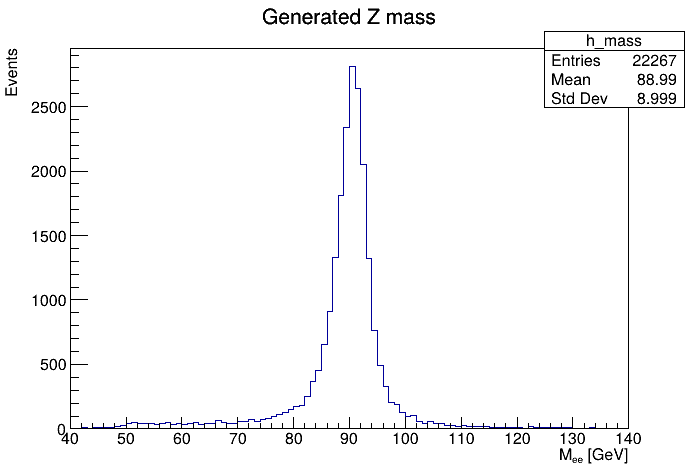
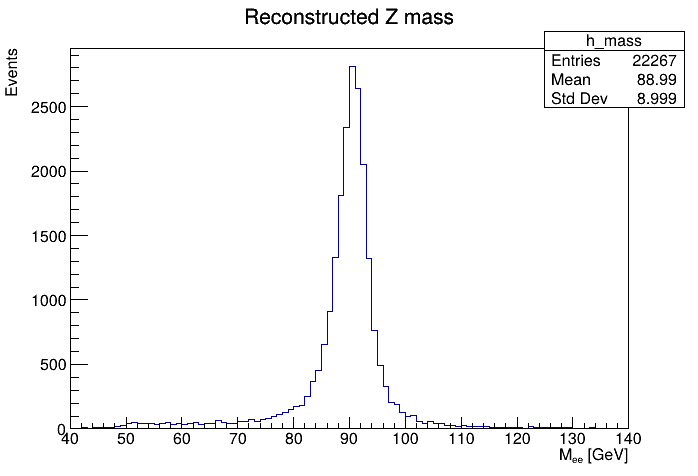
Minor revisions

Changed region(s): [[0.3309, 0.0, 0.6619, 0.0588]]

diff --git a/Question4/generatedZ_custom.C b/Question4/generatedZ_custom.C
@@ -3,6 +3,7 @@
 #include "TH1F.h"
 #include "TCanvas.h"
 #include "TLorentzVector.h"
+#include "TSystem.h"
 
 #include <vector>
 #include <iostream>
@@ -14,8 +15,14 @@
 
 void generatedZ_custom() {
 
+    // Load dictionary for custom particle classes
+    if (gSystem->Load("Question4/libMyParticles.so") < 0) {
+        std::cout << "Error loading libMyParticles.so" << std::endl;
+        return;
+    }
+
     // Open the new tree
-    TFile *f = TFile::Open("particleTree.root");
+    TFile *f = TFile::Open("Question4/particleTree.root");
 
     if (!f || f->IsZombie()) {
         std::cout << "Error opening particleTree.root" << std::endl;
@@ -26,6 +33,7 @@ void generatedZ_custom() {
 
     if (!T) {
         std::cout << "Error: tree T not found" << std::endl;
+        f->Close();
         return;
     }
 
@@ -52,29 +60,24 @@ void generatedZ_custom() {
 
         T->GetEntry(i);
 
-        // Look for opposite-charge same-flavour lepton pairs
+        bool foundPair = false;
+
+        // Look for an opposite-charge electron pair
         for (size_t j = 0; j < genParticles->size(); j++) {
 
-            // Only electrons or muons
-            if (std::abs(genParticles->at(j).pdgId) != 11 &&
-                std::abs(genParticles->at(j).pdgId) != 13)
+            // Only electrons / positrons
+            if (std::abs(genParticles->at(j).pdgId) != 11)
                 continue;
 
             for (size_t k = j + 1; k < genParticles->size(); k++) {
 
-                // Only electrons or muons
-                if (std::abs(genParticles->at(k).pdgId) != 11 &&
-                    std::abs(genParticles->at(k).pdgId) != 13)
-                    continue;
-
-                // Must be same flavour
-                if (std::abs(genParticles->at(j).pdgId) !=
-                    std::abs(genParticles->at(k).pdgId))
+                // Only electrons / positrons
+                if (std::abs(genParticles->at(k).pdgId) != 11)
                     continue;
 
                 // Must have opposite charge
-                if (genParticles->at(j).charge ==
-                    genParticles->at(k).charge)
+                if (genParticles->at(j).charge *
+                    genParticles->at(k).charge != -1)
                     continue;
 
                 // Four-momentum of particle 1
@@ -83,12 +86,12 @@ void generatedZ_custom() {
                 Float_t pz1 = genParticles->at(j).pz;
 
                 Float_t E1 = std::sqrt(
-                    px1*px1 + py1*py1 + pz1*pz1
+                    px1 * px1 +
+                    py1 * py1 +
+                    pz1 * pz1
                 );
 
-                TLorentzVector p1(
-                    px1, py1, pz1, E1
-                );
+                TLorentzVector p1(px1, py1, pz1, E1);
 
                 // Four-momentum of particle 2
                 Float_t px2 = genParticles->at(k).px;
@@ -96,19 +99,26 @@ void generatedZ_custom() {
                 Float_t pz2 = genParticles->at(k).pz;
 
                 Float_t E2 = std::sqrt(
-                    px2*px2 + py2*py2 + pz2*pz2
+                    px2 * px2 +
+                    py2 * py2 +
+                    pz2 * pz2
                 );
 
-                TLorentzVector p2(
-                    px2, py2, pz2, E2
-                );
+                TLorentzVector p2(px2, py2, pz2, E2);
 
                 // Z boson four-momentum
                 TLorentzVector Z = p1 + p2;
 
                 // Fill invariant mass
                 h_mass->Fill(Z.M());
+
+                // Only one pair per event
+                foundPair = true;
+                break;
             }
+
+            if (foundPair)
+                break;
         }
     }
 
@@ -122,7 +132,7 @@ void generatedZ_custom() {
 
     h_mass->Draw();
 
-    c1->SaveAs("generatedZ_custom_mass.png");
+    c1->SaveAs("Question4/generatedZ_custom_mass.png");
 
     f->Close();
 }

diff --git a/Question3/PartA/tree_example1Class.C b/Question3/PartA/tree_example1Class.C
@@ -1,35 +1,39 @@
 #define tree_example1Class_cxx
+
 #include "tree_example1Class.h"
+
 #include <TH2.h>
+#include <TH1.h>
 #include <TStyle.h>
 #include <TCanvas.h>
 
 void tree_example1Class::Loop()
 {
-//   In a ROOT session, you can do:
-//      root> .L tree_example1Class.C
-//      root> tree_example1Class t
-//      root> t.GetEntry(12); // Fill t data members with entry number 12
-//      root> t.Show();       // Show values of entry 12
-//      root> t.Show(16);     // Read and show values of entry 16
-//      root> t.Loop();       // Loop on all entries
-//
+   //   In a ROOT session, you can do:
+   //      root> .L tree_example1Class.C
+   //      root> tree_example1Class t
+   //      root> t.GetEntry(12); // Fill t data members with entry number 12
+   //      root> t.Show();       // Show values of entry 12
+   //      root> t.Show(16);     // Show values of entry 16
+   //      root> t.Loop();       // Loop on all entries
+   //
+   //     This is the loop skeleton where:
+   //    jentry is the global entry number in the chain
+   //    ientry is the entry number in the current Tree
+   //  Note that the argument to GetEntry must be:
+   //    jentry for TChain::GetEntry
+   //    ientry for TTree::GetEntry and TBranch::GetEntry
+   //
+   //       To read only selected branches, Insert statements like:
+   // METHOD1:
+   //    fChain->SetBranchStatus("*",0);  // disable all branches
+   //    fChain->SetBranchStatus("branchname",1);  // activate branchname
+   // METHOD2: replace line
+   //    fChain->GetEntry(jentry);       //read all branches
+   //by  b_branchname->GetEntry(ientry); //read only this branch
 
-//     This is the loop skeleton where:
-//    jentry is the global entry number in the chain
-//    ientry is the entry number in the current Tree
-//  Note that the argument to GetEntry must be:
-//    jentry for TChain::GetEntry
-//    ientry for TTree::GetEntry and TBranch::GetEntry
-//
-//       To read only selected branches, Insert statements like:
-// METHOD1:
-//    fChain->SetBranchStatus("*",0);  // disable all branches
-//    fChain->SetBranchStatus("branchname",1);  // activate branchname
-// METHOD2: replace line
-//    fChain->GetEntry(jentry);       //read all branches
-//by  b_branchname->GetEntry(ientry); //read only this branch
-   if (fChain == 0) return;   
+   if (fChain == 0) return;
+
    TH2F *h_pxpy = new TH2F(
       "h_pxpy",
       "py Vs px",
@@ -43,21 +47,53 @@ void tree_example1Class::Loop()
       100, 0., 5.0
    );
 
+   TH1F *h_pt1 = new TH1F(
+      "h_pt1",
+      "pt > 1 GeV",
+      100, 0., 5.0
+   );
+
    Long64_t nentries = fChain->GetEntriesFast();
 
    Long64_t nbytes = 0, nb = 0;
-   for (Long64_t jentry=0; jentry<nentries;jentry++) {
+
+   for (Long64_t jentry = 0; jentry < nentries; jentry++) {
+
       Long64_t ientry = LoadTree(jentry);
+
       if (ientry < 0) break;
-      nb = fChain->GetEntry(jentry);   nbytes += nb;
+
+      nb = fChain->GetEntry(jentry);
+      nbytes += nb;
+
       // if (Cut(ientry) < 0) continue;
+
       h_pxpy->Fill(px, py);
+
       h_pt->Fill(pt);
+
+      // Fill second histogram for pT > 1 GeV
+      if (pt > 1.0)
+         h_pt1->Fill(pt);
    }
+
    TCanvas *c1 = new TCanvas();
+
    h_pxpy->Draw("colz");
-   c1->SaveAs("tree_example2_pxpy.png");
+
+   c1->SaveAs("Question3/PartA/Outputs/tree_example2_pxpy.png");
+
    c1->Update();
+
+   h_pt->SetLineColor(2);
+   h_pt->SetLineWidth(2);
+
+   h_pt1->SetLineColor(4);
+   h_pt1->SetLineWidth(2);
+
    h_pt->Draw();
-   c1->SaveAs("tree_example2_pt.png");
+
+   h_pt1->Draw("sames");
+
+   c1->SaveAs("Question3/PartA/Outputs/tree_example2_pt.png");
 }

diff --git a/Question4/reconstructedZ_custom.C b/Question4/reconstructedZ_custom.C
@@ -3,6 +3,7 @@
 #include "TH1F.h"
 #include "TCanvas.h"
 #include "TLorentzVector.h"
+#include "TSystem.h"
 
 #include <vector>
 #include <iostream>
@@ -14,26 +15,31 @@
 
 void reconstructedZ_custom() {
 
-    // Open the new file
-    TFile *f = TFile::Open("particleTree.root");
+    // Load dictionary for custom particle classes
+    if (gSystem->Load("Question4/libMyParticles.so") < 0) {
+        std::cout << "Error loading libMyParticles.so" << std::endl;
+        return;
+    }
+
+    // Open the new tree
+    TFile *f = TFile::Open("Question4/particleTree.root");
 
     if (!f || f->IsZombie()) {
         std::cout << "Error opening particleTree.root" << std::endl;
         return;
     }
 
-    // Get the tree
     TTree *T = (TTree*)f->Get("T");
 
     if (!T) {
         std::cout << "Error: tree T not found" << std::endl;
+        f->Close();
         return;
     }
 
-    // Vector of reconstructed electrons
+    // Vector stored in the tree
     std::vector<MyElectron> *electrons = nullptr;
 
-    // Connect branch to our vector
     T->SetBranchAddress("electrons", &electrons);
 
     // Z mass histogram
@@ -54,18 +60,16 @@ void reconstructedZ_custom() {
 
         T->GetEntry(i);
 
-        // Need at least two reconstructed electrons
-        if (electrons->size() < 2)
-            continue;
+        bool foundPair = false;
 
-        // Search for an opposite-charge pair
+        // Look for an opposite-charge electron pair
         for (size_t j = 0; j < electrons->size(); j++) {
 
             for (size_t k = j + 1; k < electrons->size(); k++) {
 
-                // Opposite charge requirement
-                if (electrons->at(j).charge ==
-                    electrons->at(k).charge)
+                // Must have opposite charge
+                if (electrons->at(j).charge *
+                    electrons->at(k).charge != -1)
                     continue;
 
                 // Four-momentum of electron 1
@@ -74,12 +78,12 @@ void reconstructedZ_custom() {
                 Float_t pz1 = electrons->at(j).pz;
 
                 Float_t E1 = std::sqrt(
-                    px1*px1 + py1*py1 + pz1*pz1
+                    px1 * px1 +
+                    py1 * py1 +
+                    pz1 * pz1
                 );
 
-                TLorentzVector p1(
-                    px1, py1, pz1, E1
-                );
+                TLorentzVector p1(px1, py1, pz1, E1);
 
                 // Four-momentum of electron 2
                 Float_t px2 = electrons->at(k).px;
@@ -87,19 +91,26 @@ void reconstructedZ_custom() {
                 Float_t pz2 = electrons->at(k).pz;
 
                 Float_t E2 = std::sqrt(
-                    px2*px2 + py2*py2 + pz2*pz2
+                    px2 * px2 +
+                    py2 * py2 +
+                    pz2 * pz2
                 );
 
-                TLorentzVector p2(
-                    px2, py2, pz2, E2
-                );
+                TLorentzVector p2(px2, py2, pz2, E2);
 
                 // Z boson four-momentum
                 TLorentzVector Z = p1 + p2;
 
                 // Fill invariant mass
                 h_mass->Fill(Z.M());
+
+                // Only one pair per event
+                foundPair = true;
+                break;
             }
+
+            if (foundPair)
+                break;
         }
     }
 
@@ -113,7 +124,7 @@ void reconstructedZ_custom() {
 
     h_mass->Draw();
 
-    c1->SaveAs("reconstructedZ_custom_mass.png");
+    c1->SaveAs("Question4/reconstructedZ_custom_mass.png");
 
     f->Close();
 }

diff --git a/Question2/reconstructedZ_electrons.C b/Question2/reconstructedZ_electrons.C
@@ -1,10 +1,10 @@
-// Generated Z -> e+e- invariant mass
+// Reconstructed Z -> e+e- invariant mass
 #include "TLorentzVector.h"
 #include <cmath>
 
 void reconstructedZ_electrons() {
 
-  TH1F *h_mass = new TH1F("h_mass", "Generated Z mass;M_{ee} [GeV];Events", 100, 40., 140.);
+  TH1F *h_mass = new TH1F("h_mass", "Reconstructed Z mass;M_{ee} [GeV];Events", 100, 40., 140.);
 
   TFile *f = new TFile("../ntuple_array.root");
   TTree *t1 = (TTree*)f->Get("ntupleProducer/tree");

diff --git a/Question2/truthMatchedZ_electrons.C b/Question2/truthMatchedZ_electrons.C
@@ -15,7 +15,7 @@ void truthMatchedZ_electrons() {
 
   TH1F *h_deltaR = new TH1F(
       "h_deltaR",
-      "Reco-gen #DeltaR;#DeltaR;Events",
+      "Reco-gen #DeltaR;#DeltaR;Matched reconstructed electrons",
       100, 0., deltaRMax
   );
 
